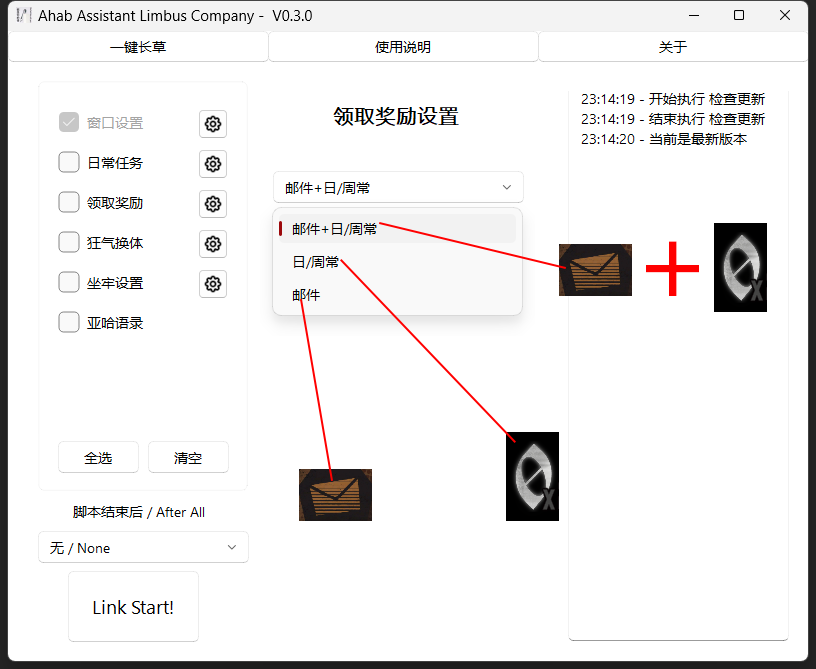
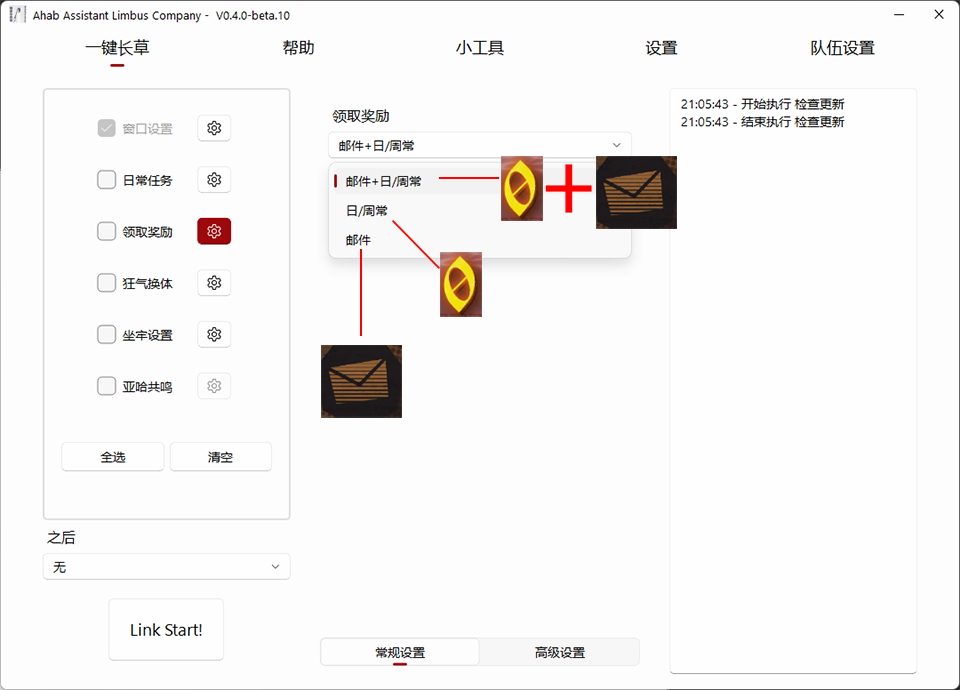
📚 docs: 更新中英文使用文档与截图路径 【新增】在中文与英文使用文档中补充主界面及镜牢设置页面的新功能说明，包括版本号显示、编队备注、葛朗台模式等 【更新】将 README 与使用文档中的截图路径统一为带语言后缀的新文件（README1_zh_CN.png、README2_zh_CN.png、README1_en.png、README2_en.png） 【优化】重新编号并细化各页面功能点的描述，使指引更清晰

diff --git a/assets/doc/en/How_to_use_EN.md b/assets/doc/en/How_to_use_EN.md
@@ -8,21 +8,35 @@
 
 ---
 
+---
+
 ![image](/assets/doc/image/main_page.png)
 
-#### ① Lets you set the window resolution size
-#### ② Used to select the in-game language (i.e. it needs to be adapted to the in-game language)
-#### ③ It is used to speed up/slow down the script operation according to your own computer configuration
-#### ④ Click to jump to the settings page for each task (see below for details)
-#### ⑤ Click to select/deselect the tasks that will be executed when the script is launched
-#### ⑥ Log bar
-#### ⑦ The action to be performed after the script runs
+#### ① Used to display the current AALC version number, which can be stated when raising ISSUES
+#### ② The main page, where all game automation content is set
+#### ③ Help documentation (where you are)
+#### ④ Some gadgets that are split separately
+#### ⑤ Some other settings (including using the team name to identify or choosing the team serial number)
+#### ⑥ Click to select/deselect the tasks that will be executed when the script is launched
+#### ⑦ Click to jump to the settings page of each task (see below for the explanation of each page)
 #### ⑧ A small feature that doesn't matter
-#### ⑨ Click to start executing the script task
+#### ⑨ Tap to select all or clear all tasks
+#### ⑩ The action to be performed after the script runs
+#### ⑪ Click to start executing the script task
+#### ⑫ Set the resolution of the window, choose according to the computer configuration (1920*1080 or 2560*1440 is recommended)
+#### ⑬ Modify the language used in the game
+#### ⑭ More settings
+#### ⑮ Log bar
+![image](/assets/doc/image/page_01.png)
+#### ⑯ Speed up/slow down script operations appropriately according to your computer configuration, and just keep the default under normal circumstances
 
 ---
 
 ![image](/assets/doc/image/page_1.png)
+
+#### ⑰ Set the formation to be used (you can set the use of team name recognition or select the team serial number in ⑤
+#### ⑱ Configure different teams for different EXP levels at different times，If not checked, the team set in ⑰ will be used
+#### ⑲ Configure different teams for different Thread levels at different times，If not checked, the team set in ⑰ will be used
 
 ---
 
@@ -32,25 +46,28 @@
 
 ![image](/assets/doc/image/page_3.png)
 
+#### ⑳ In Dr.Grande mode, when the time to generate the next amount of stamina exceeds 5 minutes and 20 seconds, the Lunacy is converted into Enkephalin
+
 ---
 
 ![image](/assets/doc/image/page_4.png)
 
-#### ① Enable/Deactivate after clicking This team is used for the Mirror Prison
-#### ② Used to showcase the rotation order of the enabled teams
-#### ③ Advanced (Dangerous) features for difficulty mirroring and for canceling weekly bonuses
-#### ④ How many times the script was executed this time
-#### ⑤ Click to jump to the current team's Team Settings page
+#### ㉑ Check to enable this formation
+#### ㉒ The name of the team's notes can be set at ㉖
+#### ㉓ When this formation is enabled, the order of mirror dungeons for this formation will be displayed
+#### ㉔ Click the gear to enter the detailed settings
+#### ㉕ Add a new team
+#### ㉖ Set the name of the team's notes
+#### ㉗ Delete this team (when there is only one team, it cannot be deleted)
+#### ㉘ Check to enable difficult mirror dungeon (only valid for this AALC run, invalid after restart)
+#### ㉙ Check to not use weekly reward bonus (only valid for this AALC run, invalid after restart)
+#### ㉚ Check to only perform three layers of mirror dungeons, and exit at the fourth layer
+#### ㉛ Check to ignore the number of times to be imprisoned below, and automatically execute 9999 times
+#### ㉜ If the Mirror Dungeon is a Hard Mirror Dungeon, the reward will not be settled and you will be returned to the main page
+#### ㉝ Check to only get one weekly reward bonus per settlement when enabling difficult mirror dungeons
 
 ---
 
 ![image](/assets/doc/image/page_5.png)
 
-#### ① Select the system used by your team
-#### ② Select the team number to be used by the team
-#### ③ Enable/deactivate the currently selected role after clicking. When selected, the character selection order appears
-- From left to right, top to bottom, in the order of the 12 sinners (as in the game)
-#### ④ Enable/deactivate after clicking Discard for selected items, either for sale or as an asset
-#### ⑤ After clicking to switch the function, if it is not selected, sell the accessories of the selected system below, and use the accessories of the selected system below as materials for synthesis when selected
-#### ⑥ Click to enable/deactivate the aggressive mode of crafting accessories, using the three cosmetics of the highest level as materials (including the accessories of the team's system), and synthesizing the accessories of the fourth level of the system (after success, exit this mode in the mirror prison of the game)
-#### ⑦ Show off the fool-proof feature
+#### When the store policy is "Fuse: Level IV First", the aggressive synthesis option below and the synthesis level IV option of the second system will take effect

diff --git a/assets/doc/zh/How_to_use.md b/assets/doc/zh/How_to_use.md
@@ -10,19 +10,31 @@
 
 ![image](/assets/doc/image/main_page.png)
 
-#### ① 用于设置窗口分辨率大小
-#### ② 用于选择游戏内语言（即需要与游戏内语言相适配）
-#### ③ 用于根据自身电脑配置适当加快/减慢脚本操作速度
-#### ④ 点击后跳转到各个任务的设置页面（详细讲解见下文）
-#### ⑤ 点击后可选择/取消选择启动脚本时执行的任务
-#### ⑥ 日志栏
-#### ⑦ 脚本运行结束后执行的操作
+#### ① 用于展示当前AALC的版本号，可以在提ISSUES时说明
+#### ② 主页面，所有的游戏自动化内容都在此设置
+#### ③ 帮助文档（你所在的位置）
+#### ④ 一些单独拆分出来的小工具
+#### ⑤ 一些其他的设置内容（包含使用队伍名称识别还是选择队伍序号）
+#### ⑥ 点击后可选择/取消选择启动脚本时执行的任务
+#### ⑦ 点击后跳转到各个任务的设置页面（各个页面的讲解见下文）
 #### ⑧ 一个无关紧要的小功能
-#### ⑨ 点击后开始执行脚本任务
+#### ⑨ 点击可以全选或清空所有任务
+#### ⑩ 脚本运行结束后执行的操作
+#### ⑪ 点击后开始执行脚本任务
+#### ⑫ 设置窗口的分辨率，按电脑配置自行选择（建议使用1920*1080或2560*1440）
+#### ⑬ 修改游戏中使用的语言
+#### ⑭ 更多的设置项
+#### ⑮ 日志栏
+![image](/assets/doc/image/page_01.png)
+#### ⑯ 根据自身电脑配置适当加快/减慢脚本操作速度，正常保持默认即可
 
 ---
 
 ![image](/assets/doc/image/page_1.png)
+
+#### ⑰ 设置使用的编队（可于⑤中设置使用队伍名称识别还是选择队伍序号）
+#### ⑱ 用于配置不同时间不同经验本的队伍，不勾选则采用⑰设置的队伍
+#### ⑲ 用于配置不同时间不同纽本的队伍，不勾选则采用⑰设置的队伍
 
 ---
 
@@ -32,25 +44,28 @@
 
 ![image](/assets/doc/image/page_3.png)
 
+#### ⑳ 葛朗台模式，当生成下一点体力的时间超过5分20秒时，才将狂气转换为体力
+
 ---
 
 ![image](/assets/doc/image/page_4.png)
 
-#### ① 点击后启用/取消启用 此队伍用于镜牢
-#### ② 用于展示已启用队伍的轮换排序
-#### ③ 高级（危险）功能，用于进行困难镜牢与用于取消每周加成
-#### ④ 此次脚本执行多少次镜牢
-#### ⑤ 点击后跳转到当前配队的 队伍设置页面
+#### ㉑ 勾选表示启用此编队
+#### ㉒ 此队伍的备注名称，可于㉖设置
+#### ㉓ 当启用此编队时，展示此编队的镜牢次序
+#### ㉔ 点击齿轮，进行详细设置
+#### ㉕ 添加新队伍
+#### ㉖ 设置此队伍的备注名称
+#### ㉗ 删除此队伍（当仅剩一个队伍时，不可删除）
+#### ㉘ 勾选后启用困难镜牢（仅本次AALC运行期间有效，重启后失效）
+#### ㉙ 勾选后不使用每周奖励加成（仅本次AALC运行期间有效，重启后失效）
+#### ㉚ 勾选后只进行三层镜牢，第四层时退出
+#### ㉛ 勾选后下方坐牢次数无效，自动执行9999次
+#### ㉜ 勾选后将只执行一次镜牢，当此次镜牢为困难镜牢时，将不结算并返回主界面
+#### ㉝ 勾选后启用困难镜牢时，将每次结算只领取一次每周奖励加成
 
 ---
 
 ![image](/assets/doc/image/page_5.png)
 
-#### ① 选择本配队使用的体系
-#### ② 选择本配队使用的队伍序号
-#### ③ 点击后启用/取消启用 当前选中角色。选中后出现角色选择顺序
-- 从左到右，从上到下按12名罪人的顺序排列（和游戏中一样）
-#### ④ 点击后启用/取消启用 对于选中饰品的舍弃功能，用于出售或作为素材
-#### ⑤ 点击后切换功能，未选中时出售下方选中体系饰品，选中时将下方选中体系饰品作为素材用于合成
-#### ⑥ 点击后启用/取消启用 合成饰品的激进模式，将最高等级的三个饰品作为素材（包含本队伍体系饰品），合成IV级本体系饰品（成功后在本局镜牢中退出此模式）
-#### ⑦ 展示一下防呆的功能
+#### 当商店策略为“合成：四级优先时”，下方的激进合成选项、第二体系的合成IV级选项才会生效

diff --git a/assets/doc/en/README_EN.md b/assets/doc/en/README_EN.md
@@ -142,11 +142,11 @@ Users are required to comply with the rules of use and terms of service of the r
 
 ### Start screen
 
-![image](/assets/doc/image/README1.png)
+![image](/assets/doc/image/README1_en.png)
 
 ### The Mirror Dungeon team setup screen 
 
-![image](/assets/doc/image/README2.png)
+![image](/assets/doc/image/README2_en.png)
 
 ---
 ## Acknowledgements

diff --git a/README.md b/README.md
@@ -141,10 +141,10 @@
 
 ### 开始界面
 
-![image](/assets/doc/image/README1.png)
+![image](/assets/doc/image/README1_zh_CN.png)
 ### 镜牢队伍设置界面
 
-![image](/assets/doc/image/README2.png)
+![image](/assets/doc/image/README2_zh_CN.png)
 
 ---
 ## 致谢
